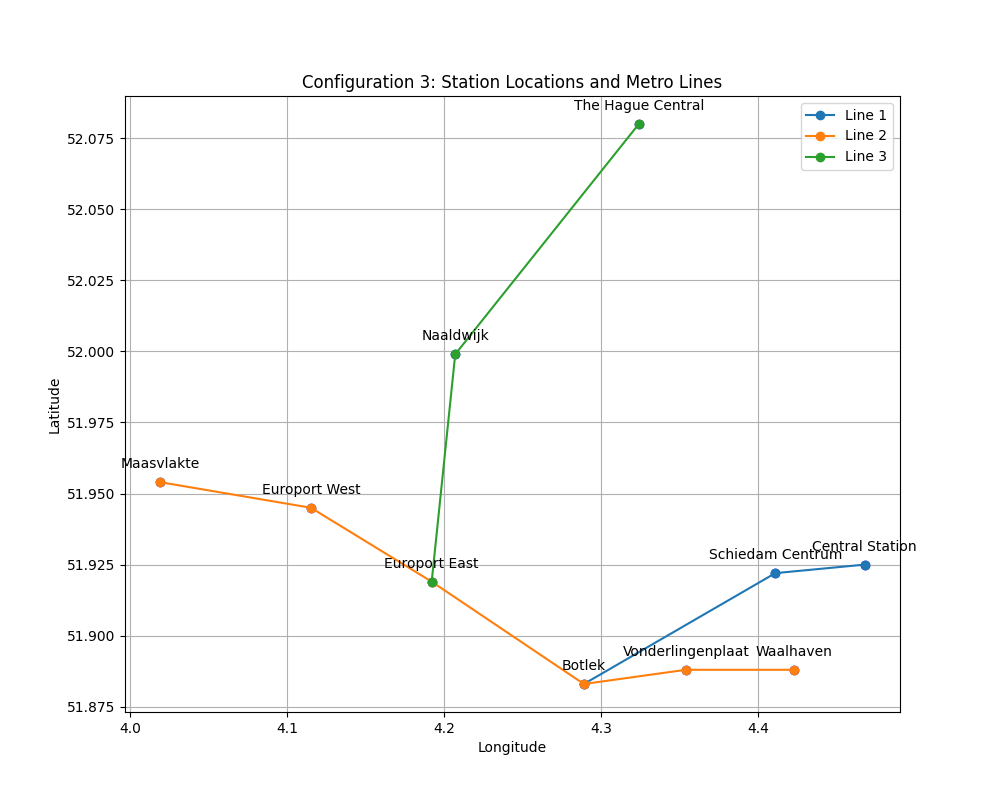
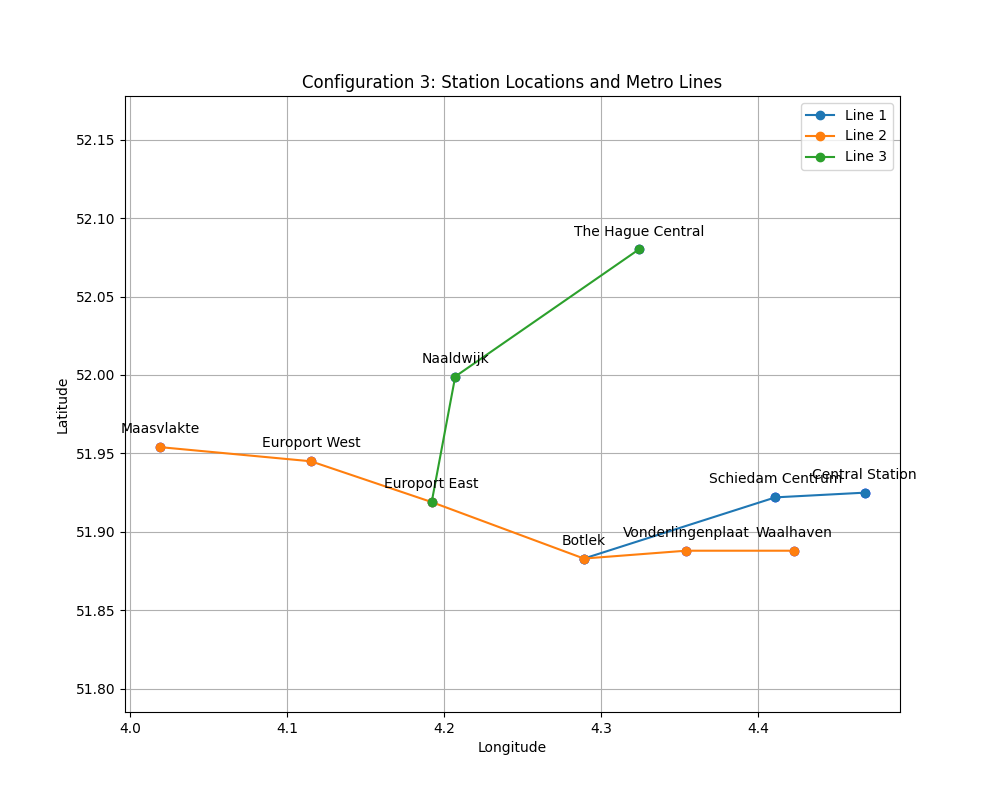
Changed scale on the axis of the graphs to line up with maps

diff --git a/Inputs.py b/Inputs.py
@@ -4,7 +4,7 @@
 from metro_classes import Station, Connection, MetroLine
 
 
-Configuration = 7
+Configuration = 3
 #Define average speed and stopping time
 average_velocity =  60 # km/h
 average_stopping_time = 1/60  # minutes
@@ -46,7 +46,7 @@ connections = [
     Connection(find_station_by_name("Botlek", stations), find_station_by_name("Europort East", stations)),
     Connection(find_station_by_name("Europort East", stations), find_station_by_name("Europort West", stations)),
     Connection(find_station_by_name("Europort West", stations), find_station_by_name("Maasvlakte", stations)),
-    Connection(find_station_by_name("Europort West", stations), find_station_by_name("Naaldwijk", stations)),
+    Connection(find_station_by_name("Europort East", stations), find_station_by_name("Naaldwijk", stations)),
     Connection(find_station_by_name("Naaldwijk", stations), find_station_by_name("The Hague Central", stations)),
     Connection(find_station_by_name("The Hague Central", stations), find_station_by_name("Central Station", stations))
 

diff --git a/Main.py b/Main.py
@@ -90,8 +90,9 @@ plt.legend()
 
 # Show plot
 plt.grid(True)
+plt.axis('equal')
 plt.savefig(f'Output_Files/Configuration_{Configuration}_station_locations_and_metro_lines.png')
-#plt.show()
+
 # Load the background image
 #bg_image = plt.imread('Map2.png')
 

diff --git a/Test 1.0.py b/Test 1.0.py
@@ -190,6 +190,7 @@ plt.xlabel('Longitude')
 plt.ylabel('Latitude')
 plt.title('Station Locations and Metro Lines')
 plt.legend()
+plt.axis('equal')
 
 # Show plot
 plt.grid(True)
